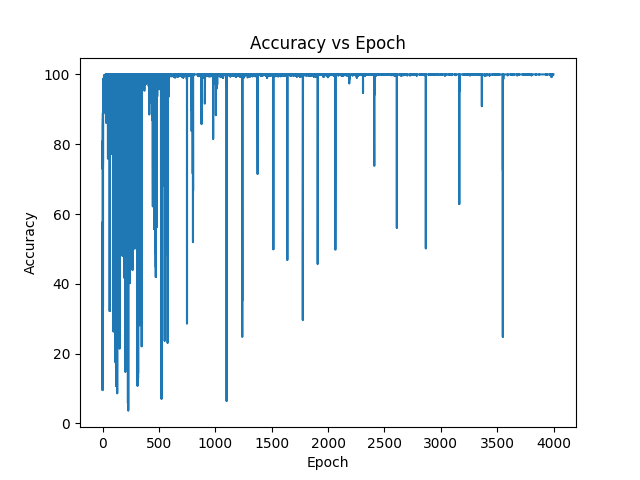
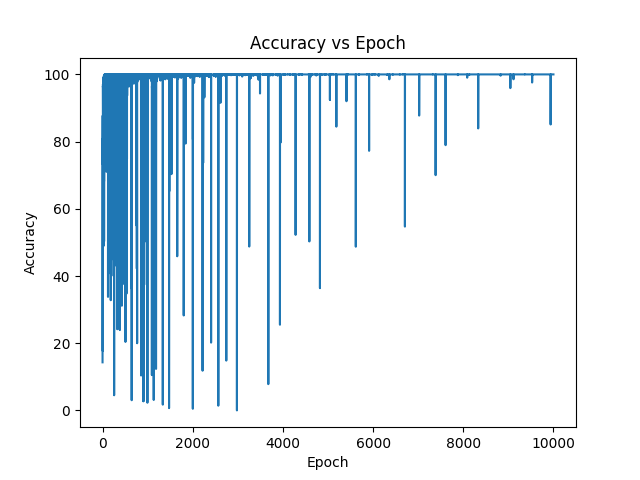
T1_11/11/19 results

diff --git a/map2path.py b/map2path.py
@@ -380,7 +380,7 @@ class Pix2Pix():
 if __name__ == '__main__':
     #train
     gan = Pix2Pix()
-    gan.train(epochs=10000, batch_size=20, sample_interval=100)
+    gan.train(epochs=10000, batch_size=30, sample_interval=50)
 
     """
     model = load_model("saved_model/gen_model_line.h5")
